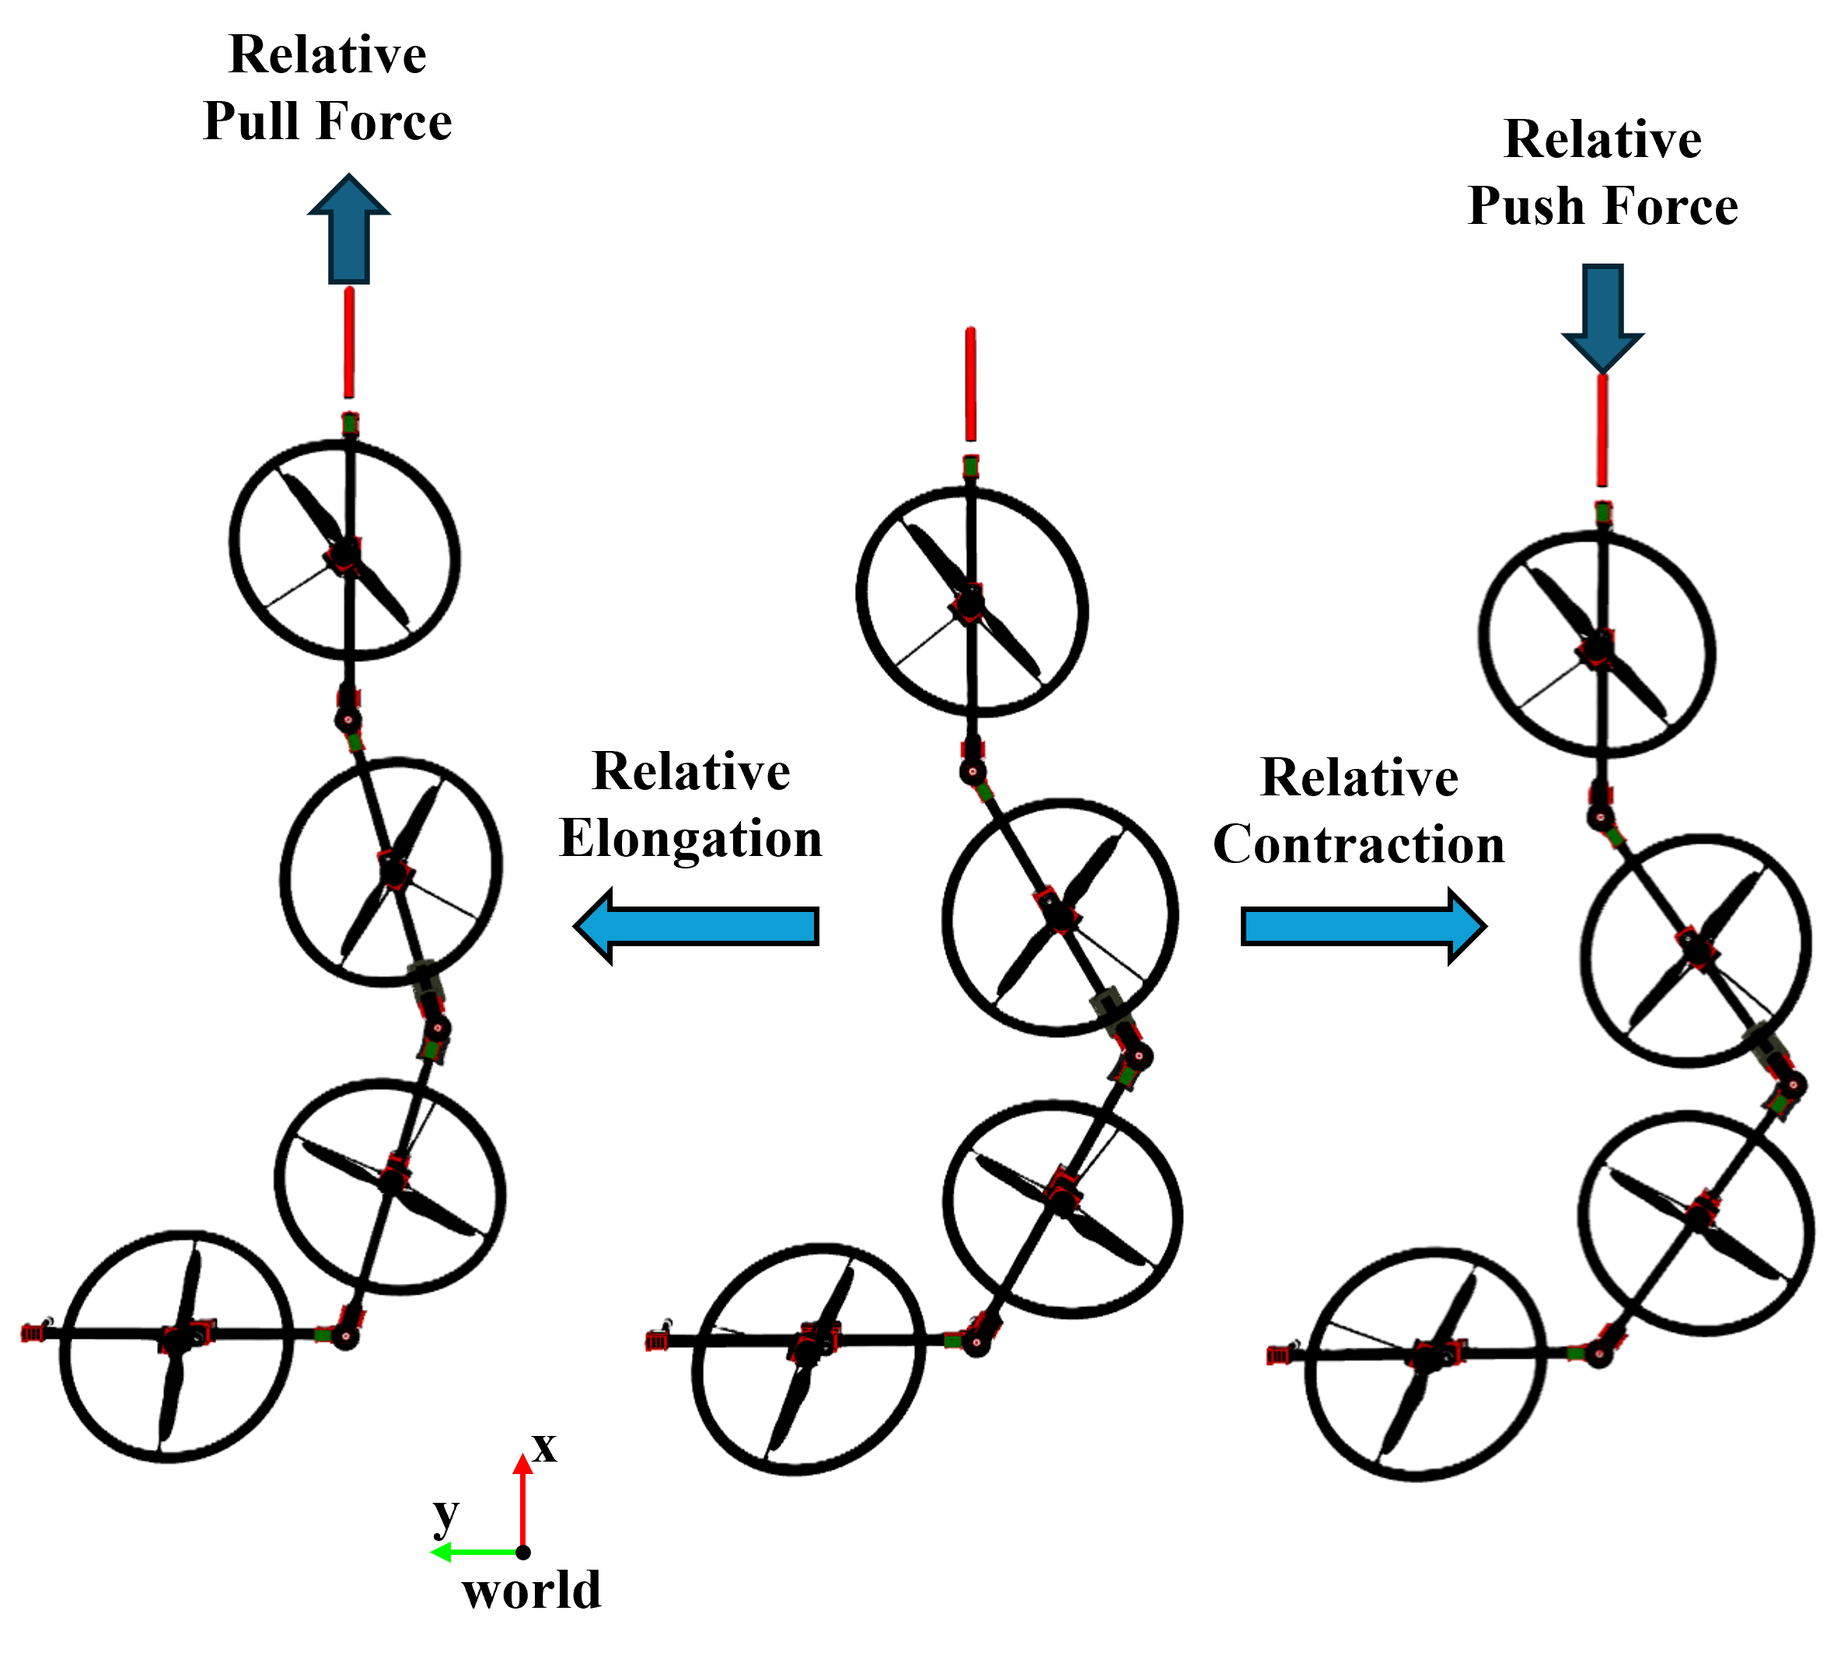
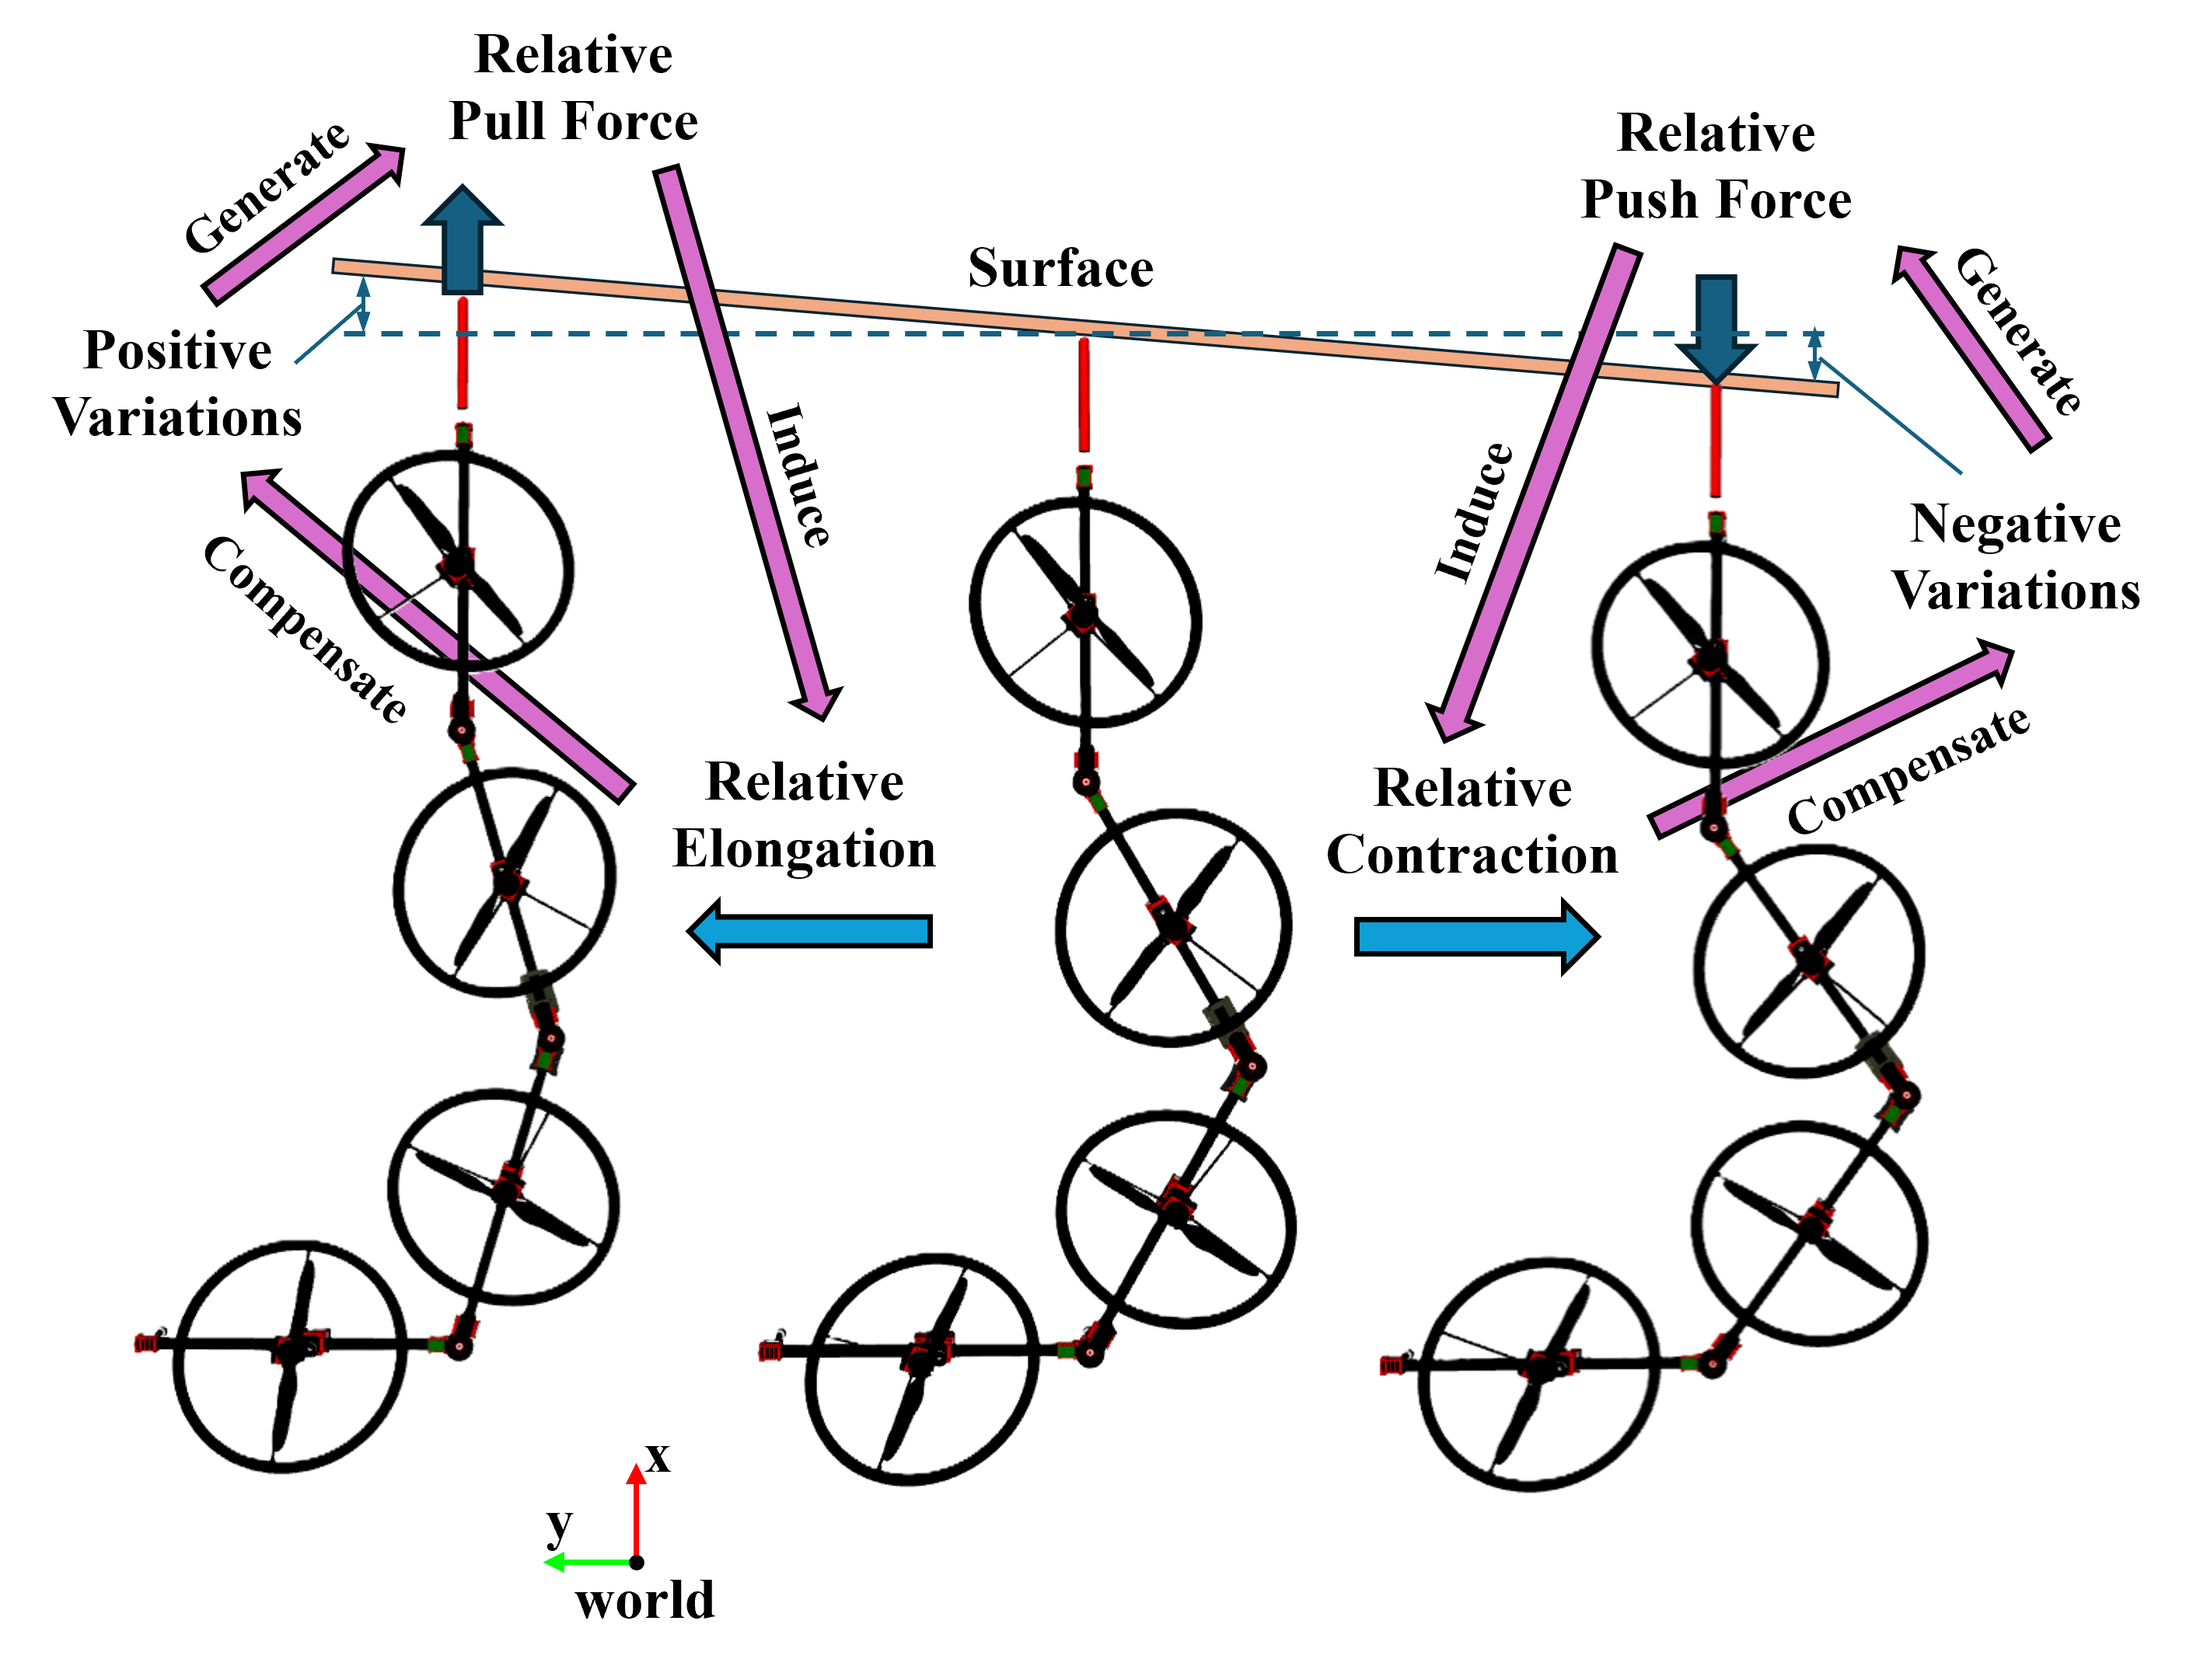
4-Admittance- modification

Changed region(s): [[0.0, 0.0, 0.9962, 0.8986], [0.2179, 0.8676, 0.3113, 0.9915]]

diff --git a/4_admittance.tex b/4_admittance.tex
@@ -1,7 +1,6 @@
 \chapter{Admittance Control for Joint Motion}
 %%%%%%%%%%%%%%%%%%%%%%%%%%%%%%%%%%%%%%%%%%%%%%%%%%%%%%%%%%%%%%%%%%%%%%%%%%%%%%%%
-In this chapter, we will introduce the basic concept of admittance control, as well as how we can realize it in multi-link aerial robots.
-
+In this chapter, we will introduce the basic concept of admittance control, as well as how it can be realized in multi-link aerial robots through joint motion. We will also discuss how the resulting structural deformation can be used to adapt to geometric variations in surface sliding tasks.
 
 %%%%%%%%%%%%%%%%%%%%%%%%%%%%%%%%%%%%%%%%%%%%%%%%%%%%%%%%%%%%%%%%%%%%%%%%%%%%%%%%
 \section{General Admittance Control}
@@ -17,9 +16,7 @@ In general, since position errors may occur in all translational directions, we 
 \label{eq:admittance control}
     \boldsymbol{M}_a(\boldsymbol{\ddot{r}}-\boldsymbol{\ddot{r}}_{ref})+\boldsymbol{C}_a(\boldsymbol{\dot{r}}-\boldsymbol{\dot{r}}_{ref})+\boldsymbol{K}_a(\boldsymbol{r}-\boldsymbol{r}_{ref})={\boldsymbol{\tilde{f}}_{ext}}-\boldsymbol{f}_{ref},
 \end{equation}
-where ${\boldsymbol{\tilde{f}}_{ext}} \in \mathbb{R}^{3}$ is the filtered external force derived from the real external force ${^W\!\boldsymbol{f}_{ext}} \in \mathbb{R}^{3}$, and $\boldsymbol{f}_{ref} \in \mathbb{R}^{3}$ represents the reference external force. The position vector $\boldsymbol{r} \in \mathbb{R}^{3}$ is defined as a distance, whose specific definition depends on the task. The reference position vector $\boldsymbol{r}_{ref} \in \mathbb{R}^{3}$ corresponds to the original distance.
-
-Finally, the diagonal parameter matrices $\boldsymbol{M}_a$, $\boldsymbol{C}_a$, and $\boldsymbol{K}_a \in \mathbb{R}^{3\times3}$ denote the admittance mass, damping, and stiffness along different axes, respectively.
+where ${\boldsymbol{\tilde{f}}_{ext}} \in \mathbb{R}^{3}$ is the filtered external force derived from the real external force ${^W\!\boldsymbol{f}_{ext}} \in \mathbb{R}^{3}$, and $\boldsymbol{f}_{ref} \in \mathbb{R}^{3}$ represents the reference external force. The position vector $\boldsymbol{r} \in \mathbb{R}^{3}$ is defined as a distance related to the end effector position, whose specific definition depends on the task requirements and the configuration of the multi-link aerial robots. The reference position vector $\boldsymbol{r}_{ref} \in \mathbb{R}^{3}$ corresponds to the distance in the nominal configuration. Finally, the diagonal parameter matrices $\boldsymbol{M}_a$, $\boldsymbol{C}_a$, and $\boldsymbol{K}_a \in \mathbb{R}^{3\times3}$ denote the admittance mass, damping, and stiffness along different axes, respectively.
 
 
 We then employ a discrete-time difference method to compute the distance $\boldsymbol{r}$ at each time step, denoted as $\boldsymbol{r}[k]$. The corresponding acceleration is calculated as:
@@ -39,10 +36,10 @@ where $\Delta t$ is the control period.
 
 % Given the desired end-effector pose, the corresponding angle $\theta$ that is defined in Fig.~\ref{fig:hybrid_controller} 
 
-Given the desired end-effector pose, the joint angles are obtained by solving the inverse kinematics (IK). The detailed process of IK depends on the definition of the distance $\boldsymbol{r}$ and the control variables, so it will be introduced in the experiment chapter. After the desired deformation is achieved through joint motion, the multi-link aerial robot can vary its configuration in response to the external force. 
+Given the calculated distance, the desired end effector position can be derived, and the corresponding joint angles are then obtained by solving the inverse kinematics (IK). The detailed IK process depends on the definition of the distance $\boldsymbol{r}$ and the control variables, so it will be introduced in the experiment chapter.  As a result, deformation is achieved through joint motion, thereby changing the end effector position in response to the external force.
+
 
 % Usually, the geometry variation will introduce the external force change when the aerial robot is in contact with the surface. Therefore, with the internal admittance control, the multi-link aerial robot can exhibit deformation to adapt to the geometry variation, which is required in the surface sliding task.
-
 
 % In theory, if we choose appropriate parameters, the distance $r$ will not change rapidly, which will help to keep stable.
 
@@ -53,9 +50,7 @@ Given the desired end-effector pose, the joint angles are obtained by solving th
 
 \section{Admittance in Surface Sliding Tasks}
 
-In surface sliding tasks, the objective of admittance control is to adapt to the geometric variations of the surface. In this work, a simplified surface sliding scenario is considered. Instead of continuously changing the aerial robot's orientation to be normal to the surface, the robot is assumed to maintain a fixed $yaw$ direction, while the sliding direction is always defined to be perpendicular to the end effector. Under this task definition, different types of surface geometry variations, such as uneven surfaces or changes in surface inclination, can be equivalently represented as variations along the direction of the end effector. Therefore, the geometry variation can be regarded as mainly occurring along a single direction, as illustrated in Fig.~\ref{fig:admittance_sliding}.
-
-
+In surface sliding tasks, the objective of admittance control is to adapt to the geometric variations of the surface. In this work, a simplified surface sliding scenario is considered. Instead of continuously changing the aerial robot's orientation to be normal to the surface, the robot is assumed to maintain a fixed $yaw$ direction, while the sliding direction is always defined to be perpendicular to the end effector. Under this task definition, different types of surface geometric variations, such as uneven surfaces or changes in surface inclination, can be equivalently represented as variations along the direction of the end effector. Therefore, the geometric variation can be regarded as mainly occurring along a single direction, as illustrated in Fig.~\ref{fig:admittance_sliding}. 
 
 
 
@@ -63,25 +58,23 @@ In surface sliding tasks, the objective of admittance control is to adapt to the
     \centering
     % \parbox{3in}
     \includegraphics[trim={0cm 0.3cm 0cm 0cm},clip,width=\linewidth]{figures/chapter4/admittance_sliding.png}
-    \caption{Surface sliding task example. If we fix the $yaw$ direction and always slide in the direction perpendicular to the end effector, the geometry variation can be considered to occur mainly along a single direction.}
+    \caption{Surface sliding task example. If we fix the $yaw$ direction and always slide in the direction perpendicular to the end effector, the geometric variation can be considered to occur mainly along a single direction.}
     \label{fig:admittance_sliding}
 \end{figure}
 
-To compensate for the geometry variation, admittance control needs to be mainly applied along this direction. On the other hand, admittance control is achieved through deformation, which means that the configuration of the multi-link aerial robot will change continuously during sliding. To reduce the potential instability caused by this deformation, we only apply admittance control along one axis. In this work, the $x$ axis of the world frame $\{W\}$ is selected as the admittance acting direction.
+To compensate for the geometric variation, admittance control needs to be mainly applied along this direction. However, admittance control is achieved through deformation, which means that the configuration of the multi-link aerial robot changes continuously during sliding. To reduce the potential instability caused by this deformation, we apply admittance control only along one axis. In this work, the $x$ axis of the world frame $\{W\}$ is selected as the admittance acting direction.
 
-If the geometric variations mainly occur along the $x$ axis, only single-axis admittance control is employed along this direction. This design choice avoids additional structural motions in non-contact directions, which could adversely affect the stability of the aerial robot. The admittance dynamics along the $x$ axis can then be written as: 
+This design choice avoids additional structural motions in non-contact directions, which could adversely affect the stability of the aerial robot. The admittance dynamics along the $x$ axis can then be written as:
 
 \begin{equation}
 \label{eq:admittance control2}
     m_a(\ddot{r}-\ddot{r}_{ref})+c_a(\dot{r}-\dot{r}_{ref})+k_a(r-r_{ref})=\hat{f}_{ext,x}-f_{ref,x}.
 \end{equation}
-
 For simplicity, the reference velocity and acceleration are set as $\dot{r}_{ref}=0$ and $\ddot{r}_{ref}=0$, respectively. Therefore, the corresponding acceleration is calculated as:
 \begin{equation}
 \label{eq:difference method3}
 \ddot{r}[k]=\frac{(\hat{f}_{ext,x}-f_{ref,x})-k_a(r[k-1]-r_{ref})-c_a\dot{r}[k-1]}{m_a}.
 \end{equation}
-
 Note that all the variables and parameters here are scalars. Naturally, the position can be derived from:
 
 \begin{subequations}
@@ -97,7 +90,8 @@ r[k]&=r[k-1]+\dot{r}[k]\Delta t,
 % Through the admittance controller, variations in surface geometry induce corresponding changes in the contact forces. Due to the adaptation mechanism, the majority of geometric variations and external force disturbances are absorbed at the joints, while the portion transmitted to the CoG is significantly reduced, leading to more favorable overall motion behavior of the aerial robot.
 
 
-As shown in Fig.~\ref{fig:admittance_figure}, the multi-link structure changes its configuration to adapt to the external force. The multi-link aerial robot can deform under an external force applied along the admittance-activated direction. When a relative pulling force is applied, the structure becomes elongated compared with its original configuration, and vice versa. In the surface sliding task, variations in the surface geometry along the $x$ axis generally induce corresponding changes in the external force along the $x$ axis. With the admittance controller, these force variations result in the elongation or contraction of the multi-link structure, allowing its configuration to follow the corresponding geometric variations and thereby adapt to changes in the surface geometry.
+As shown in Fig.~\ref{fig:admittance_figure}, variations in the surface geometry along the $x$ axis generate corresponding changes in the external force along the same axis. Through the admittance controller, these force variations induce deformation of the multi-link aerial robot, which appears as elongation or contraction of the multi-link structure. In detail, when a relative pulling force is applied, the structure becomes elongated compared with its original configuration, and vice versa. The resulting deformation follows the variation of the surface, thereby compensating for the geometric variation. In this way, a response cycle from surface variation to force variation, structural deformation, and geometric compensation is formed, allowing the multi-link aerial robot to adapt to changes in the surface geometry.
+
 
 %%%%%%%%%%%%%%%%%%%%%%%%%%%%%%%%%%%%%%%%%%%%%%%%%%%%%%%%%%%%%%%%%%%%%%%%%%%%%%%%
 % \subsection{Full-Dimensional Admittance}
@@ -112,7 +106,7 @@ As shown in Fig.~\ref{fig:admittance_figure}, the multi-link structure changes i
 % the contact and sliding directions exhibit fundamentally 
 %%%%%%%%%%%%%%%%%%%%%%%%%%%%%%%%%%%%%%%%%%%%%%%%%%%%%%%%%%%%%%%%%%%%%%%%%%%%%%%%
 \section{Summary}
-In this chapter, we discussed the concept of admittance control, the specific implementation of admittance control in the surface sliding task, and its effect on the configuration of multi-link aerial robots. The relationship between the external force and the resulting deformation of multi-link aerial robots was also explained. The effects of admittance control will be further demonstrated and evaluated in the experiments presented in the following chapter.
+In this chapter, we discussed the concept of admittance control, its specific implementation in the surface sliding task, and its effect on the configuration of multi-link aerial robots. The relationship between the external force and the resulting deformation of multi-link aerial robots was also explained, together with the mechanism by which the deformation helps the robot adapt to geometric variations. The effects of admittance control will be further demonstrated and evaluated in the experiments presented in the following chapter.
 
 % In this chapter, we realize the hybrid control of dragon. We first discuss the necessity of using the hybrid control. We express the different impedance control mode. Finally use it in the dragon. Transparently, the kind of control method can be promoted to solve more complicated aerial manipulation tasks.
 
@@ -121,7 +115,6 @@ In this chapter, we discussed the concept of admittance control, the specific im
     \centering
     % \parbox{3in}
     \includegraphics[trim={0cm 0cm 0cm 0cm},clip,width=\linewidth]{figures/chapter4/admittance_figure.png}
-    \caption{The multi-link structure changes its configuration in response to the external force. A relative pulling force leads to relative elongation, while a relative pushing force leads to relative contraction.}
+    \caption{Surface geometric variations generate corresponding external force variations. In response to the external force, the multi-link structure changes its configuration through admittance control. A relative pulling force leads to relative elongation, while a relative pushing force leads to relative contraction. The resulting deformation compensates for the geometric variations.}
     \label{fig:admittance_figure}
 \end{figure}
-
